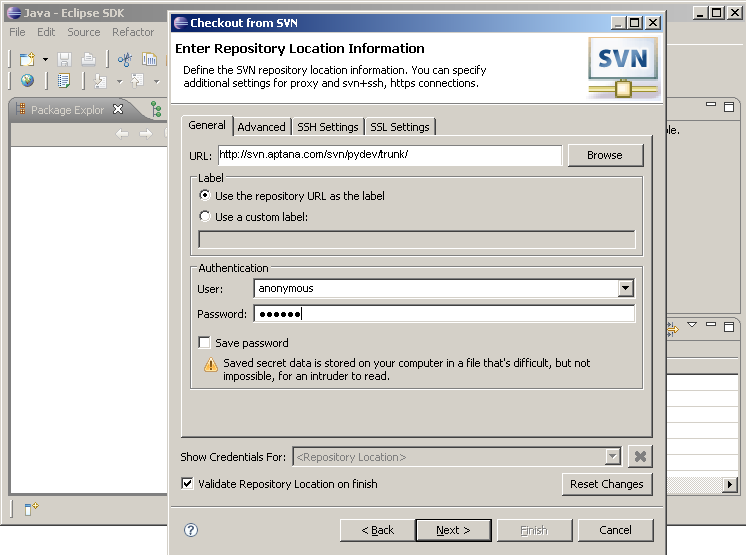
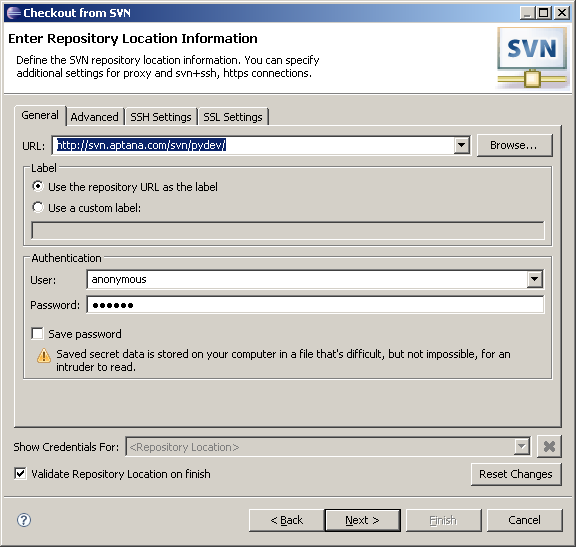
Updating developers guide.
git-svn-id: svn://localhost/trunk@1384 42a48d6c-1186-114d-bcb1-a7d39102e91d

diff --git a/plugins/com.python.pydev.docs/open_source/_developers.contents.htm b/plugins/com.python.pydev.docs/open_source/_developers.contents.htm
@@ -6,37 +6,48 @@ This page shows how to effectively get up and running with the pydev code. <br/>
 <h2>Getting the code</h2>
 
 The first thing you probably want to do in order to code in pydev is <strong>getting its code</strong>. As pydev is an Eclipse plugin, 
-the whole process will be explained based on the Eclipse infrastructure (this was written for the sdk version 3.3 with Subversive 0.7.1).<br/><br/>
+the whole process will be explained based on the Eclipse infrastructure (this was written for the sdk version 3.4.1 with Subversive 0.7.6).<br/><br/>
 
-<strong>Pre-requisites:</strong> Eclipse SDK 3.3, Subversive 0.7.1 and Java 5.0 (note that latest versions of those should work too but details may differ a bit)<br/><br/>
+<strong>Pre-requisites:</strong> Eclipse SDK 3.4.1, Subversive 0.7.6 and Java 5.0 (note that other versions of those should work too but details may differ a bit)<br/><br/>
 
 Before getting the code, there's an important step you need to make: Change your java 'compiler compliance-level' to 5.0.
 To do this, go to <strong>window > preferences > Java > compiler</strong> and change that setting from <strong>1.4 to 5.0</strong>.<br/><br/>
 
 <h3>Getting the code</h3>
 
-1. Go to the menu: <strong> File &gt; New &gt; Other </strong> and choose <strong>Projects from SVN</strong><br/><br/>
+Go to the menu: <strong> File &gt; New &gt; Other </strong> and choose <strong>Projects from SVN</strong><br/><br/>
 
 <br/><br/><center><img src="images/developers/pic1.png" border=1/></center><br/><br/>
 
-<strong>2. Fill the needed info with </strong><br/>
+<center>
+<strong>Fill the needed info with </strong><br/>
 <ul>
-	<li>repo: <strong>http://svn.aptana.com/svn/pydev/</strong></li>
-	<li>user: <strong>anonymous</strong></li>
-	<li>password: <strong>aptana</strong></li>
+	repo: <strong>http://svn.aptana.com/svn/pydev/</strong><br>
+	user: <strong>anonymous</strong><br>
+	password: <strong>aptana</strong><br>
 </ul>
+</center>
 
 <br/><br/><center><img src="images/developers/pic2.png" border=1/></center><br/><br/>
 
-<strong>3. Choose the projects to download (or you can just point to trunk and let it find the projects -- note that Mylyn is optional)</strong>
+<center><strong>Append trunk to the path (to get the trunk) and press 'Finish'  </strong></center>
+
+<br/><br/><center><img src="images/developers/pic2a.png" border=1/></center><br/><br/>
+
+<center><strong>Select 'Find projects in the children of the selected resource'</strong></center>
 
 <br/><br/><center><img src="images/developers/pic3.png" border=1/></center><br/><br/>
 
-<strong>4. Choose to download those resources as projects</strong>
+<center><strong>Check "Respect projects hierarchy" and choose the projects to download (only Mylyn is optional) and press 'Next'</strong></center><br>
+<center>Note that it's important that when downloaded the internal hierarchy is kept -- with 3 top-folders:<br> 
+plugins, builders and features (so that the build script can be used later)</center>
 
 <br/><br/><center><img src="images/developers/pic4.png" border=1/></center><br/><br/>
 
-<strong>5. Finish</strong>
+<center><strong>Choose where to download it and press 'Finish'</strong></center><br>
+
+<br/><br/><center><img src="images/developers/pic5.png" border=1/></center><br/><br/>
+
 
 <h3>Configuring the environment after getting the code</h3>
 
@@ -45,7 +56,7 @@ To do this, go to <strong>window > preferences > Java > compiler</strong> and ch
 After you do that, you'll probably note that the tests did <strong>not compile successfully</strong>. This is because there are some settings
 that will depend on your installation, and this settings are stored in a class that holds that info (which you'll have to create). 
 There is a 'template' for that file in the svn at: 
-<strong>org.python.pydev.core/TestDependent.template</strong>. You should create a copy of that file in that same dir named 
+<strong>org.python.pydev.core/tests/org.python.pydev.core/TestDependent.OS.template</strong>. You should create a copy of that file in that same dir named 
 <strong>TestDependent.java</strong> and set the needed things according to your installation. If there is still something that does
 not compile, it may mean that: <br/>
 <ul>
@@ -73,6 +84,10 @@ If you want to take the Jython approach, check out this article on how to do
 
 And that's it. If you have further doubts about how to code in pydev, direct your questions to 
 the <a href="http://lists.sourceforge.net/lists/listinfo/pydev-code">pydev-code list</a> at sourceforge.<br/><br/>
+
+
+<h2>Creating a distribution locally</h2>
+
 
 <h2>Contributing back</h2>
 
